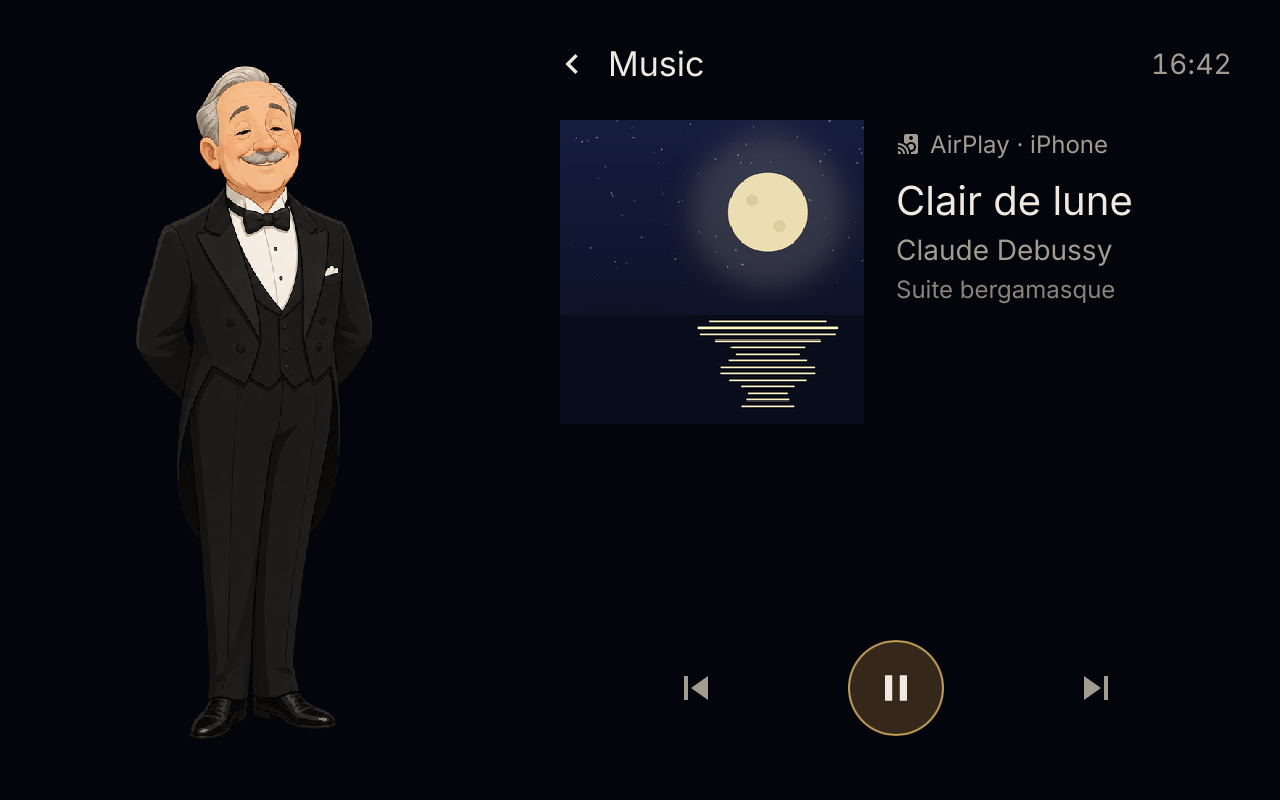
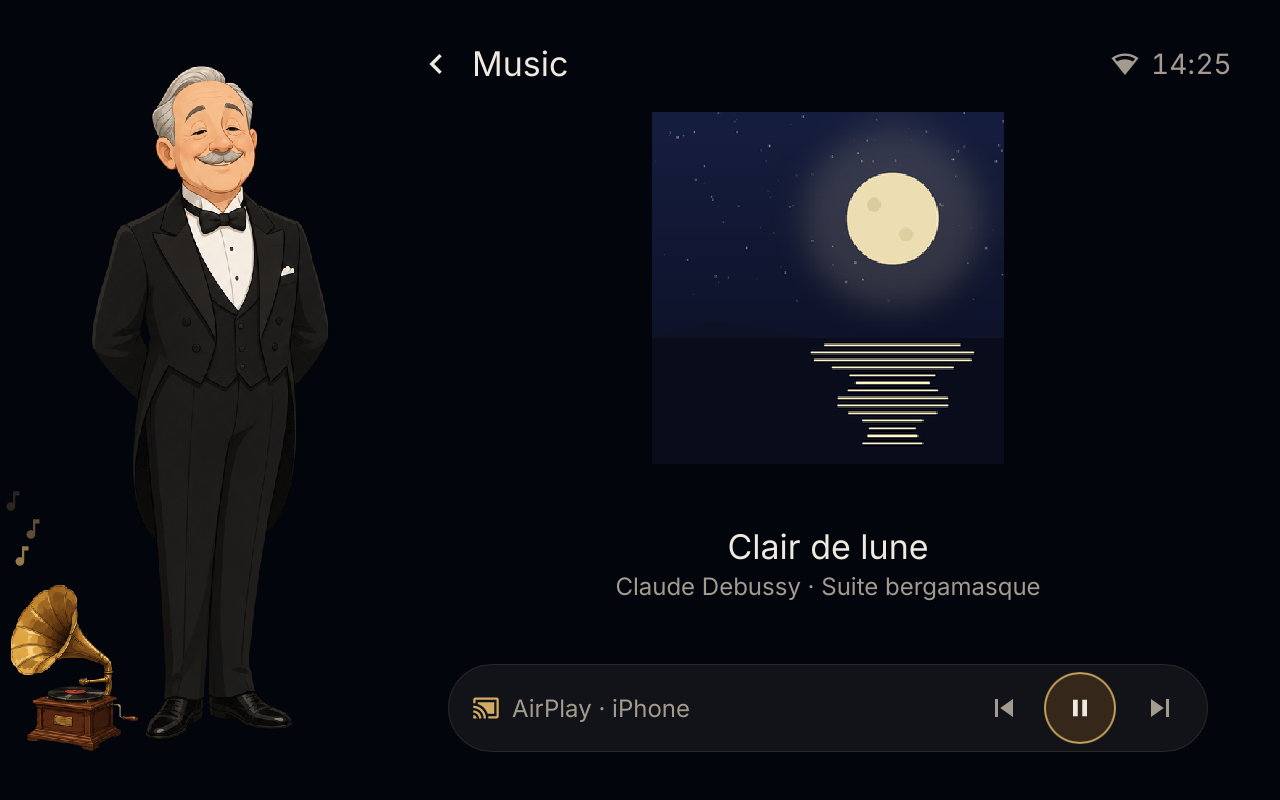
0.2.0: version, README screens with the v0.2 look, the house section
The README's pictures are made again on the sample data (the gramophone, the small clock,
the music page without the blurred cover, the Home Assistant page) and a section shows
the house question and its Undo. Golden screenshots with the version.

diff --git a/README.md b/README.md
@@ -10,7 +10,7 @@ The first device is the Lenovo ThinkSmart View (2 GB, a phone-class Snapdragon) 
 [thinksmart-view-debian](https://github.com/m0s4ik/thinksmart-view-debian); the first character is **Alfred**, an
 elderly butler.
 
-<p align="center"><img src="docs/images/device-home.png" width="760" alt="A ThinkSmart View showing Alfred's home screen: the clock, the date and the weather, a reminder, a timer and AirPlay music, the HA, Talk and More buttons"></p>
+<p align="center"><img src="docs/images/device-home.png" width="760" alt="A ThinkSmart View showing Alfred's home screen: the clock, the date and the weather, a reminder, a timer and AirPlay music, the gramophone at Alfred's feet, the HA, Talk and More buttons"></p>
 
 [<img src="https://img.shields.io/github/v/release/m0s4ik/home-companion?include_prereleases&logo=github&label=Release">](https://github.com/m0s4ik/home-companion/releases)
 [<img src="https://img.shields.io/badge/Home%20Assistant-2026.11-41BDF5?logo=homeassistant&logoColor=white">](https://www.home-assistant.io)
@@ -40,6 +40,19 @@ memories, reminders, the shopping list, timers and alarms, and the house **with 
 only after a "yes"; locks, alarms, doors and gates never by voice).
 
 Your scripts exposed to Assist work as tools, and your automations' sentence triggers still run first (Home Assistant checks them before the AI agent, even with "prefer local intents" off, whenever the request comes through the voice pipeline; only the answer to a follow-up question goes straight to the agent).
+
+### 💡 The house, with a safety net
+
+"Turn off the kitchen light", "close the living room blind to 30%": the AI uses the device's house tool, which
+finds the device by its words and checks it first. Lights and switches act at once, with a card and **Undo** that puts
+back what changed (a whole room at once). Covers and valves **ask first**, out loud and on the screen: answer yes
+or no by voice or with a tap; after a spoken yes you have two seconds to take it back, and the same window then
+says what was done, with Undo. Locks, alarms, doors and gates are never moved by voice.
+
+<p align="center">
+<img src="docs/images/house-ask.png" width="400" alt="Living room blind: close it? No and Yes, and the time left to answer">
+<img src="docs/images/house-done-asked.png" width="400" alt="The same window after the yes: Living room blind, Closed, with Undo and its time">
+</p>
 
 ### 🏠 The home screen
 
@@ -110,8 +123,8 @@ goes quiet while Alfred listens. **Screen mirroring** uses the hardware video de
 controls stay at the sides; sideways, the picture fills the screen and the controls come with a tap.
 
 <p align="center">
-<img src="docs/images/airplay.png" width="400" alt="An iPhone mirrored over AirPlay, Alfred on the left, the time and the controls on the right">
-<img src="docs/images/music.png" width="400" alt="AirPlay music: the cover, the title, the artist and the album, previous, pause and next">
+<img src="docs/images/airplay.png" width="400" alt="A phone mirrored over AirPlay: the home button and Alfred on the left, the phone in the middle, the time, the controls and the volume on the right">
+<img src="docs/images/music.png" width="400" alt="AirPlay music: the cover, the title and the artist under it, the bar with previous, pause and next, the gramophone at Alfred's feet">
 </p>
 
 ### 🔗 Set up from the screen
@@ -122,7 +135,7 @@ over MCP, Alfred's agent under your AI and his voice pipeline. Nothing to type, 
 
 <p align="center">
 <img src="docs/images/setup-qr.png" width="400" alt="Let's link Home Assistant: a QR code and three steps, scan, allow, done">
-<img src="docs/images/setup-done.png" width="400" alt="All set: Alfred is set up, every row green: listening and voice, tools, AI, character, speech and voice">
+<img src="docs/images/setup-done.png" width="400" alt="The Home Assistant page once linked: the AI, speech-to-text, text-to-speech and voice in use, the AI's cost today, Check and repair, Unlink">
 </p>
 
 ### 🪶 Light
